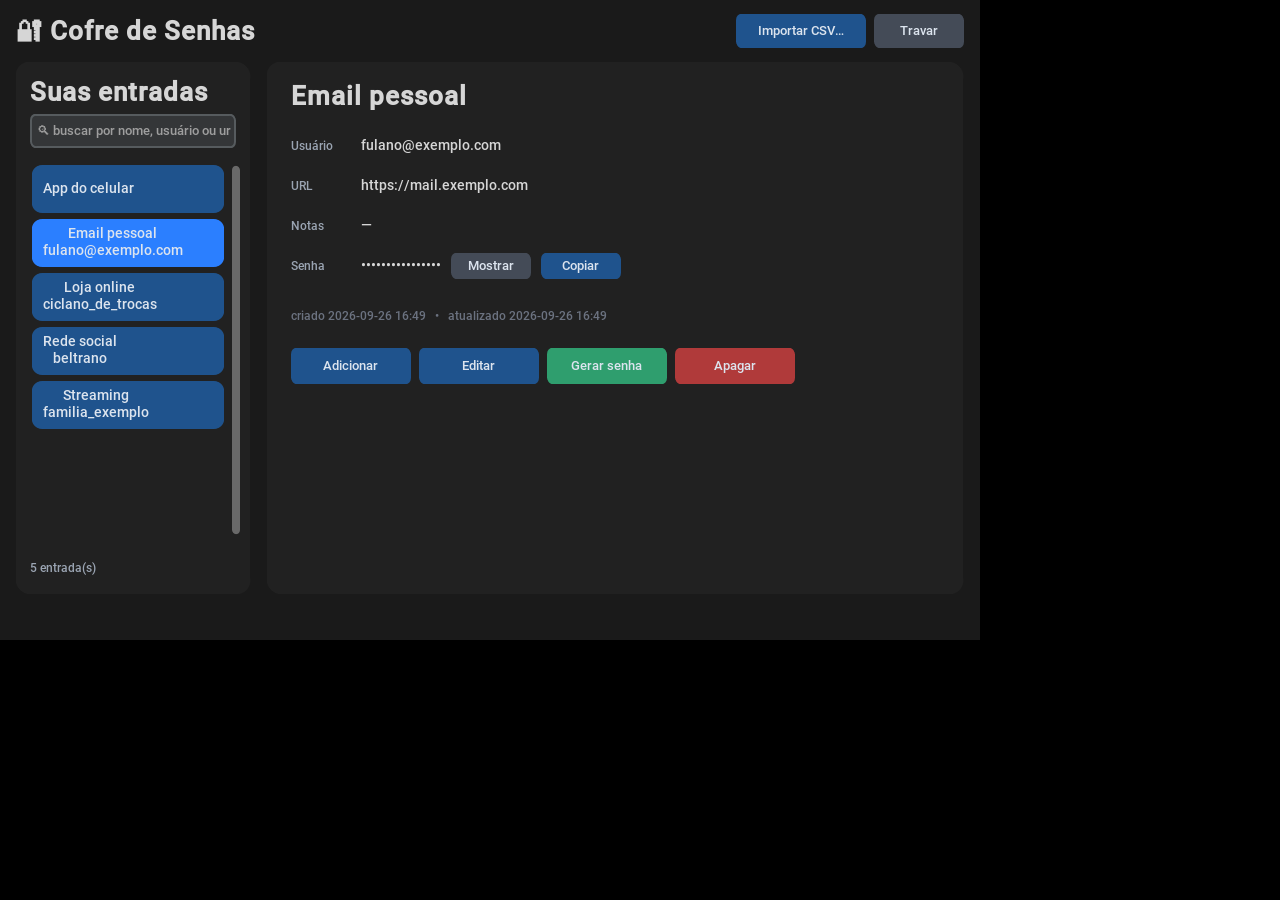
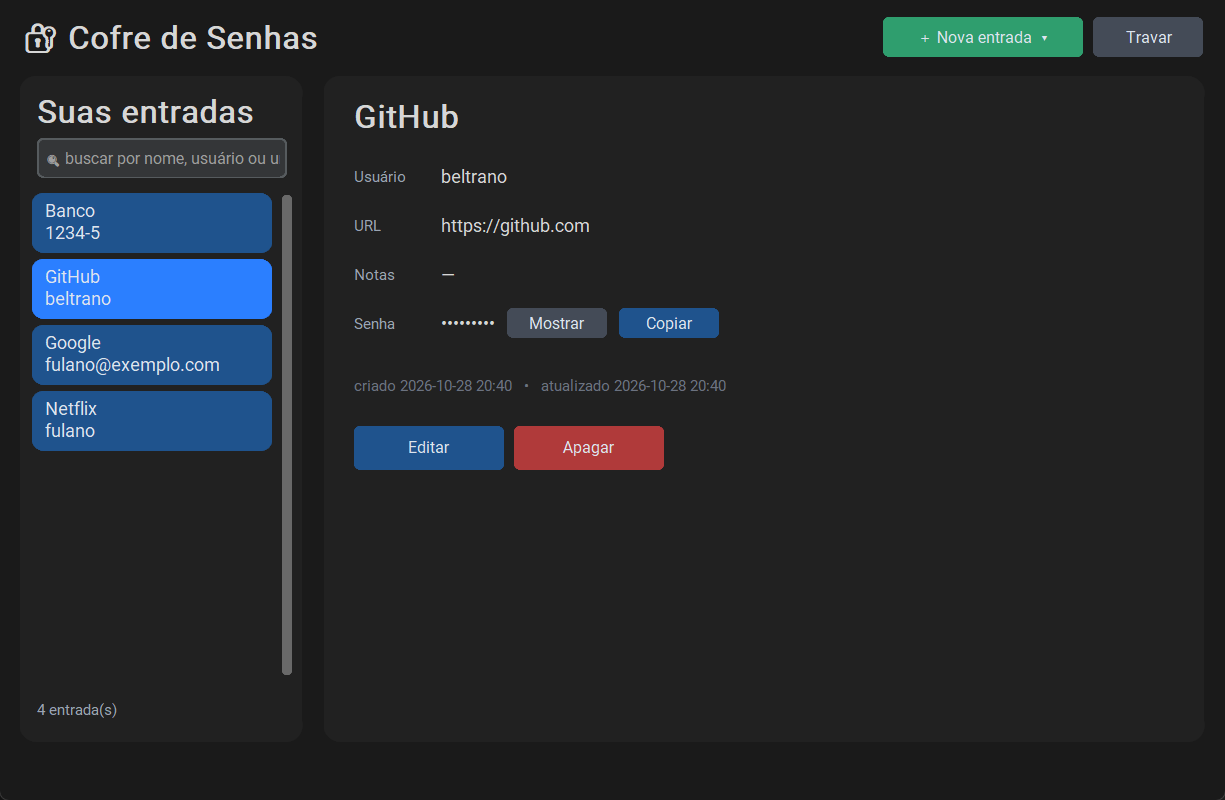
feat(ui): menu "Nova entrada" e acoes so com entrada selecionada
- Editar/Apagar so aparecem no painel quando ha uma entrada selecionada
- botao "+ Nova entrada" no topo abre menu suspenso: preencher
  manualmente, com senha forte gerada ou importar CSV do navegador
  (substitui os botoes Adicionar/Gerar senha e "Importar CSV...")
- menu fecha ao escolher, clicar fora, Esc ou travar
- texto de varias linhas alinhado a esquerda (lista e menu)
- testes do menu e da visibilidade das acoes; screenshot do README

diff --git a/gui.py b/gui.py
@@ -28,6 +28,15 @@ FONTE_NORMAL: ctk.CTkFont | None = None
 FONTE_PEQUENA: ctk.CTkFont | None = None
 
 
+def _alinhar_esquerda(btn: ctk.CTkButton) -> None:
+    """Texto de várias linhas alinhado à esquerda. O CTkButton não expõe
+    `justify`; o rótulo interno é recriado quando o texto fica vazio, então
+    chame de novo depois de cada `configure(text=...)`."""
+    rotulo = getattr(btn, "_text_label", None)
+    if rotulo is not None:
+        rotulo.configure(justify="left")
+
+
 class CofreApp(ctk.CTk):
     def __init__(self) -> None:
         super().__init__()
@@ -106,8 +115,10 @@ class CofreApp(ctk.CTk):
         topo.grid_columnconfigure(1, weight=1)
         ctk.CTkLabel(topo, text="🔐 Cofre de Senhas", font=FONTE_TITULO).grid(
             row=0, column=0, sticky="w")
-        ctk.CTkButton(topo, text="Importar CSV…", width=130, height=34,
-                      command=self.importar_csv).grid(row=0, column=1, sticky="e", padx=(0, 8))
+        self.btn_novo = ctk.CTkButton(topo, text="＋ Nova entrada  ▾", width=160, height=34,
+                                      fg_color="#2f9e6e", hover_color="#26815b",
+                                      command=self.alternar_menu_novo)
+        self.btn_novo.grid(row=0, column=1, sticky="e", padx=(0, 8))
         ctk.CTkButton(topo, text="Travar", width=90, height=34, fg_color="#444b57",
                       hover_color="#343a44", command=self.travar).grid(row=0, column=2, sticky="e")
 
@@ -149,23 +160,80 @@ class CofreApp(ctk.CTk):
         self.detalhes.grid(row=0, column=0, sticky="nsew", padx=24, pady=18)
         self.detalhes.grid_columnconfigure(1, weight=1)
 
-        botoes = ctk.CTkFrame(dir_, fg_color="transparent")
-        botoes.grid(row=1, column=0, sticky="ew", padx=24, pady=(0, 18))
-        for i, (texto, cmd, cor) in enumerate([
-            ("Adicionar", self.adicionar, None),
-            ("Editar", self.editar, None),
-            ("Gerar senha", self.gerar, "#2f9e6e"),
-            ("Apagar", self.apagar, "#b03a3a"),
-        ]):
-            ctk.CTkButton(botoes, text=texto, width=120, height=36, command=cmd,
-                          fg_color=cor, hover_color=cor if cor else None).grid(
-                row=0, column=i, padx=(0, 8))
+        # ações da entrada selecionada: só aparecem quando há uma seleção
+        self.acoes_entrada = ctk.CTkFrame(dir_, fg_color="transparent")
+        self.acoes_entrada.grid(row=1, column=0, sticky="ew", padx=24, pady=(0, 18))
+        ctk.CTkButton(self.acoes_entrada, text="Editar", width=120, height=36,
+                      command=self.editar).grid(row=0, column=0, padx=(0, 8))
+        ctk.CTkButton(self.acoes_entrada, text="Apagar", width=120, height=36,
+                      fg_color="#b03a3a", hover_color="#8f2f2f",
+                      command=self.apagar).grid(row=0, column=1)
+        self.acoes_entrada.grid_remove()
+
+        self._montar_menu_novo()
 
         self.lbl_status = ctk.CTkLabel(self.main_view, text="", font=FONTE_PEQUENA,
                                        text_color="#9aa4b2", anchor="w")
         self.lbl_status.grid(row=2, column=0, columnspan=2, sticky="ew", padx=20, pady=(0, 10))
 
         self.detalhes_vazio()
+
+    # ------------------------------------------------------ menu "Nova entrada"
+    def _montar_menu_novo(self) -> None:
+        """Menu suspenso do botão "＋ Nova entrada": as formas de criar entradas."""
+        self.menu_novo = ctk.CTkFrame(self.main_view, corner_radius=10, border_width=1,
+                                      fg_color="#2b2f36", border_color="#3a404a")
+        self._opcoes_menu_novo = []
+        for i, (texto, dica, cmd) in enumerate([
+            ("✏  Preencher manualmente", "você digita usuário e senha", self.adicionar),
+            ("🎲  Com senha forte gerada", "o cofre cria uma senha de 20 caracteres", self.gerar),
+            ("📥  Importar do navegador…", "CSV exportado do Chrome, Edge, Firefox…",
+             self.importar_csv),
+        ]):
+            btn = ctk.CTkButton(
+                self.menu_novo, text=f"{texto}\n{dica}", anchor="w", width=290, height=50,
+                corner_radius=8, fg_color="transparent", hover_color="#3a404a",
+                font=FONTE_PEQUENA, command=lambda c=cmd: self._escolher_no_menu(c))
+            btn.grid(row=i, column=0, sticky="ew", padx=6, pady=(6 if i == 0 else 0, 6))
+            _alinhar_esquerda(btn)
+            self._opcoes_menu_novo.append(btn)
+        self.bind_all("<Button-1>", self._clique_fora_do_menu, add="+")
+        self.bind_all("<Escape>", lambda _e: self.fechar_menu_novo(), add="+")
+
+    def menu_novo_aberto(self) -> bool:
+        return bool(self.menu_novo.winfo_manager())
+
+    def alternar_menu_novo(self) -> None:
+        if self.menu_novo_aberto():
+            self.fechar_menu_novo()
+            return
+        # logo abaixo do botão, alinhado pela direita
+        self.menu_novo.place(in_=self.btn_novo, relx=1.0, rely=1.0, anchor="ne", y=6)
+        self.menu_novo.lift()
+
+    def fechar_menu_novo(self) -> None:
+        self.menu_novo.place_forget()
+
+    def _escolher_no_menu(self, acao) -> None:
+        self.fechar_menu_novo()
+        acao()
+
+    def _clique_fora_do_menu(self, evento) -> None:
+        if not self.menu_novo_aberto():
+            return
+        w = evento.widget
+        dentro = (self.menu_novo, self.btn_novo)
+        while w is not None:
+            if w in dentro:
+                return
+            w = getattr(w, "master", None)
+        self.fechar_menu_novo()
+
+    def _mostrar_acoes(self, visiveis: bool) -> None:
+        if visiveis:
+            self.acoes_entrada.grid()
+        else:
+            self.acoes_entrada.grid_remove()
 
     # ------------------------------------------------------- desbloqueio
     def entrar(self) -> None:
@@ -206,6 +274,7 @@ class CofreApp(ctk.CTk):
     def travar(self) -> None:
         self.vault = None
         self.f = None
+        self.fechar_menu_novo()
         self.selecionado = None
         self._linhas_visiveis = None
         self._topo = 0
@@ -339,6 +408,7 @@ class CofreApp(ctk.CTk):
             else:
                 btn.configure(text=texto, fg_color=self._cor_padrao_linha,
                               hover_color=self._hover_padrao_linha)
+            _alinhar_esquerda(btn)
             self._pool_estado[i] = estado
         if nomes:
             self.barra.set(self._topo / len(nomes),
@@ -420,13 +490,14 @@ class CofreApp(ctk.CTk):
                 self._mostrar_detalhes()
         elif self._detalhes_mostrados is not None:
             if not self.vault["entries"]:
-                self.detalhes_vazio(mensagem="Cofre vazio — clique em “Adicionar” ou “Importar CSV”.")
+                self.detalhes_vazio(mensagem="Cofre vazio — clique em “＋ Nova entrada” lá em cima.")
             else:
                 self.detalhes_vazio()
 
     def detalhes_vazio(self, mensagem: str = "Selecione uma entrada ao lado 👈") -> None:
         self.selecionado = None
         self._detalhes_mostrados = None
+        self._mostrar_acoes(False)
         for w in self.detalhes.winfo_children():
             w.destroy()
         self.detalhes.grid_columnconfigure(1, weight=1)
@@ -448,6 +519,7 @@ class CofreApp(ctk.CTk):
         if not nome:
             return
         self._detalhes_mostrados = nome
+        self._mostrar_acoes(True)
         dados = cofre.descrever_entrada(self.f, self.vault["entries"][nome])
         for w in self.detalhes.winfo_children():
             w.destroy()

diff --git a/tests/test_gui.py b/tests/test_gui.py
@@ -241,3 +241,49 @@ def test_entrar_converte_cofre_antigo(app, tmp_path):
     texto = main.VAULT_PATH.read_text(encoding="utf-8")
     assert json.loads(texto)["version"] == 2
     assert "beltrano" not in texto and "GitHub" not in texto
+
+
+def test_editar_e_apagar_so_com_selecao(app):
+    janela, main, gui, vault, f = app
+    janela.vault, janela.f = vault, f
+    janela.main_view.tkraise()
+    janela.atualizar_lista()
+    janela.update()
+    assert not janela.acoes_entrada.winfo_ismapped()   # nada selecionado
+
+    janela.selecionar("GitHub")
+    janela.update()
+    assert janela.acoes_entrada.winfo_ismapped()
+
+    janela.travar()
+    janela.update()
+    assert not janela.acoes_entrada.winfo_manager()
+
+
+def test_menu_nova_entrada(app, monkeypatch):
+    janela, main, gui, vault, f = app
+    janela.vault, janela.f = vault, f
+    janela.main_view.tkraise()
+    janela.update()
+    assert not janela.menu_novo_aberto()
+
+    janela.alternar_menu_novo()
+    janela.update()
+    assert janela.menu_novo_aberto()
+    textos = [b.cget("text").split("\n")[0] for b in janela._opcoes_menu_novo]
+    assert any("manualmente" in t for t in textos)
+    assert any("senha forte" in t for t in textos)
+    assert any("Importar" in t for t in textos)
+
+    # escolher uma opção fecha o menu e chama a ação
+    chamadas = []
+    monkeypatch.setattr(janela, "adicionar", lambda: chamadas.append("adicionar"))
+    janela._escolher_no_menu(lambda: janela.adicionar())
+    janela.update()
+    assert chamadas == ["adicionar"]
+    assert not janela.menu_novo_aberto()
+
+    # clicar de novo no botão abre; clicar outra vez fecha
+    janela.alternar_menu_novo()
+    janela.alternar_menu_novo()
+    assert not janela.menu_novo_aberto()

diff --git a/README.md b/README.md
@@ -310,8 +310,8 @@ O que dá para fazer na janela:
 | **Buscar** | filtra por nome, usuário ou url enquanto você digita |
 | **Lista à esquerda** | clique numa entrada para ver os detalhes |
 | **Mostrar / Copiar** | revela a senha ou cola na área de transferência (limpa em 30 s) |
-| **Adicionar / Editar / Gerar senha / Apagar** | botões embaixo dos detalhes |
-| **Importar CSV…** | o mesmo import do terminal, com escolha de arquivo e confirmação |
+| **＋ Nova entrada ▾** | menu no topo: preencher manualmente, criar com senha forte gerada ou importar CSV do navegador |
+| **Editar / Apagar** | aparecem embaixo dos detalhes quando uma entrada está selecionada |
 | **Travar** | volta para a tela de senha na hora |
 
 **Requisitos:** a interface usa `tkinter`, que vem junto com a maioria dos
